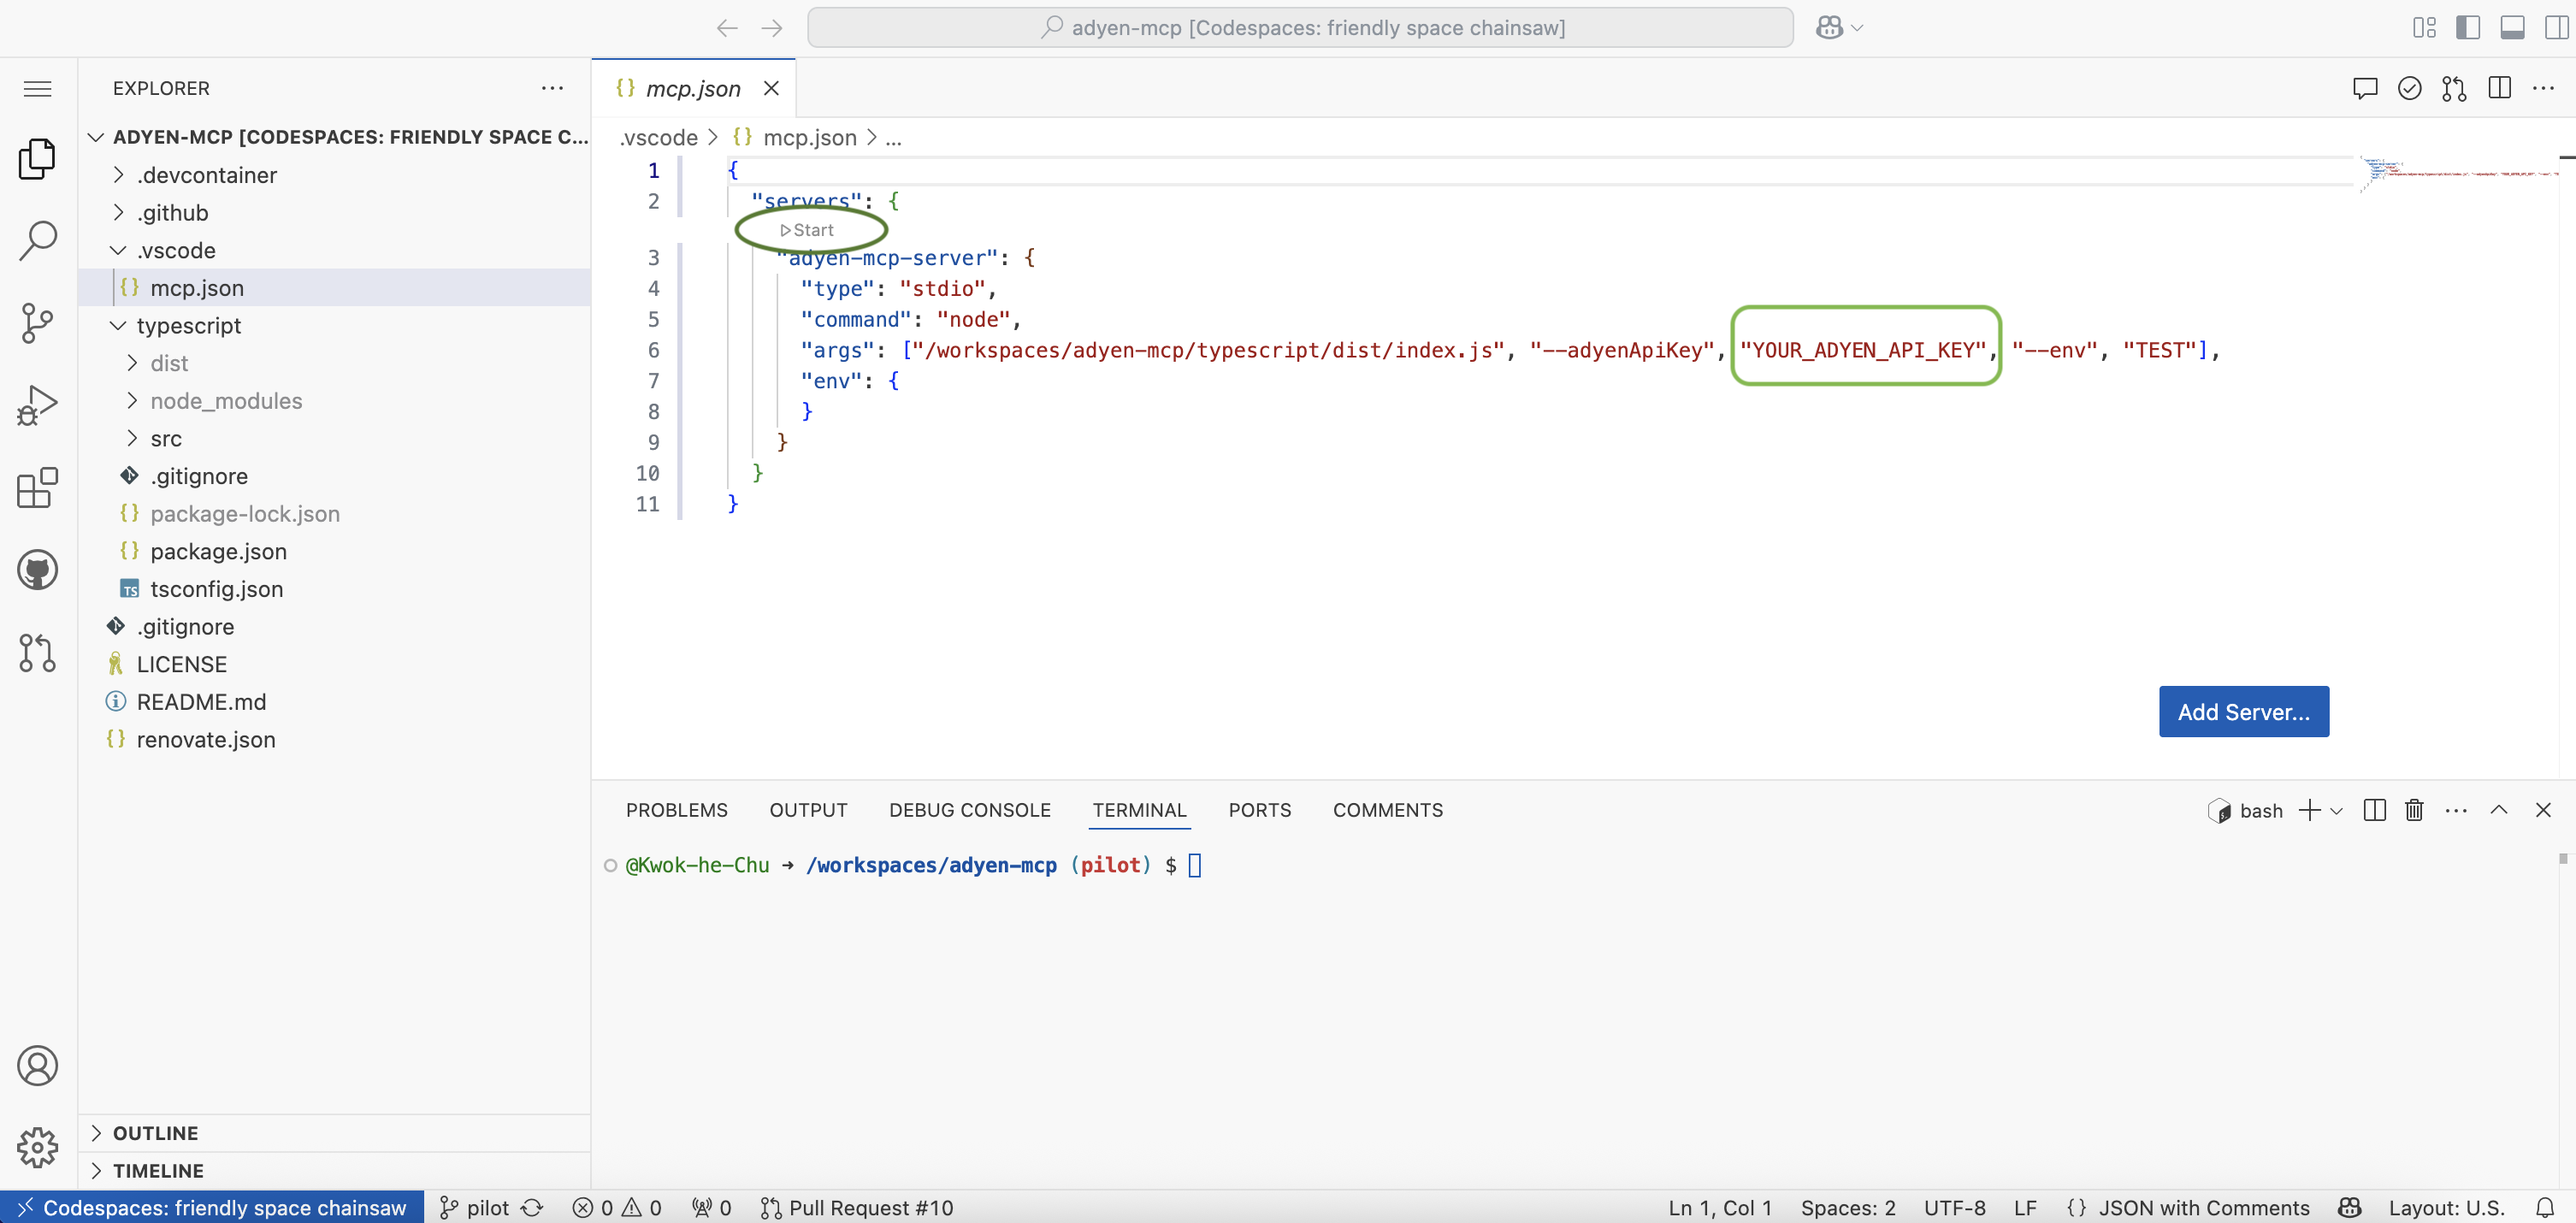
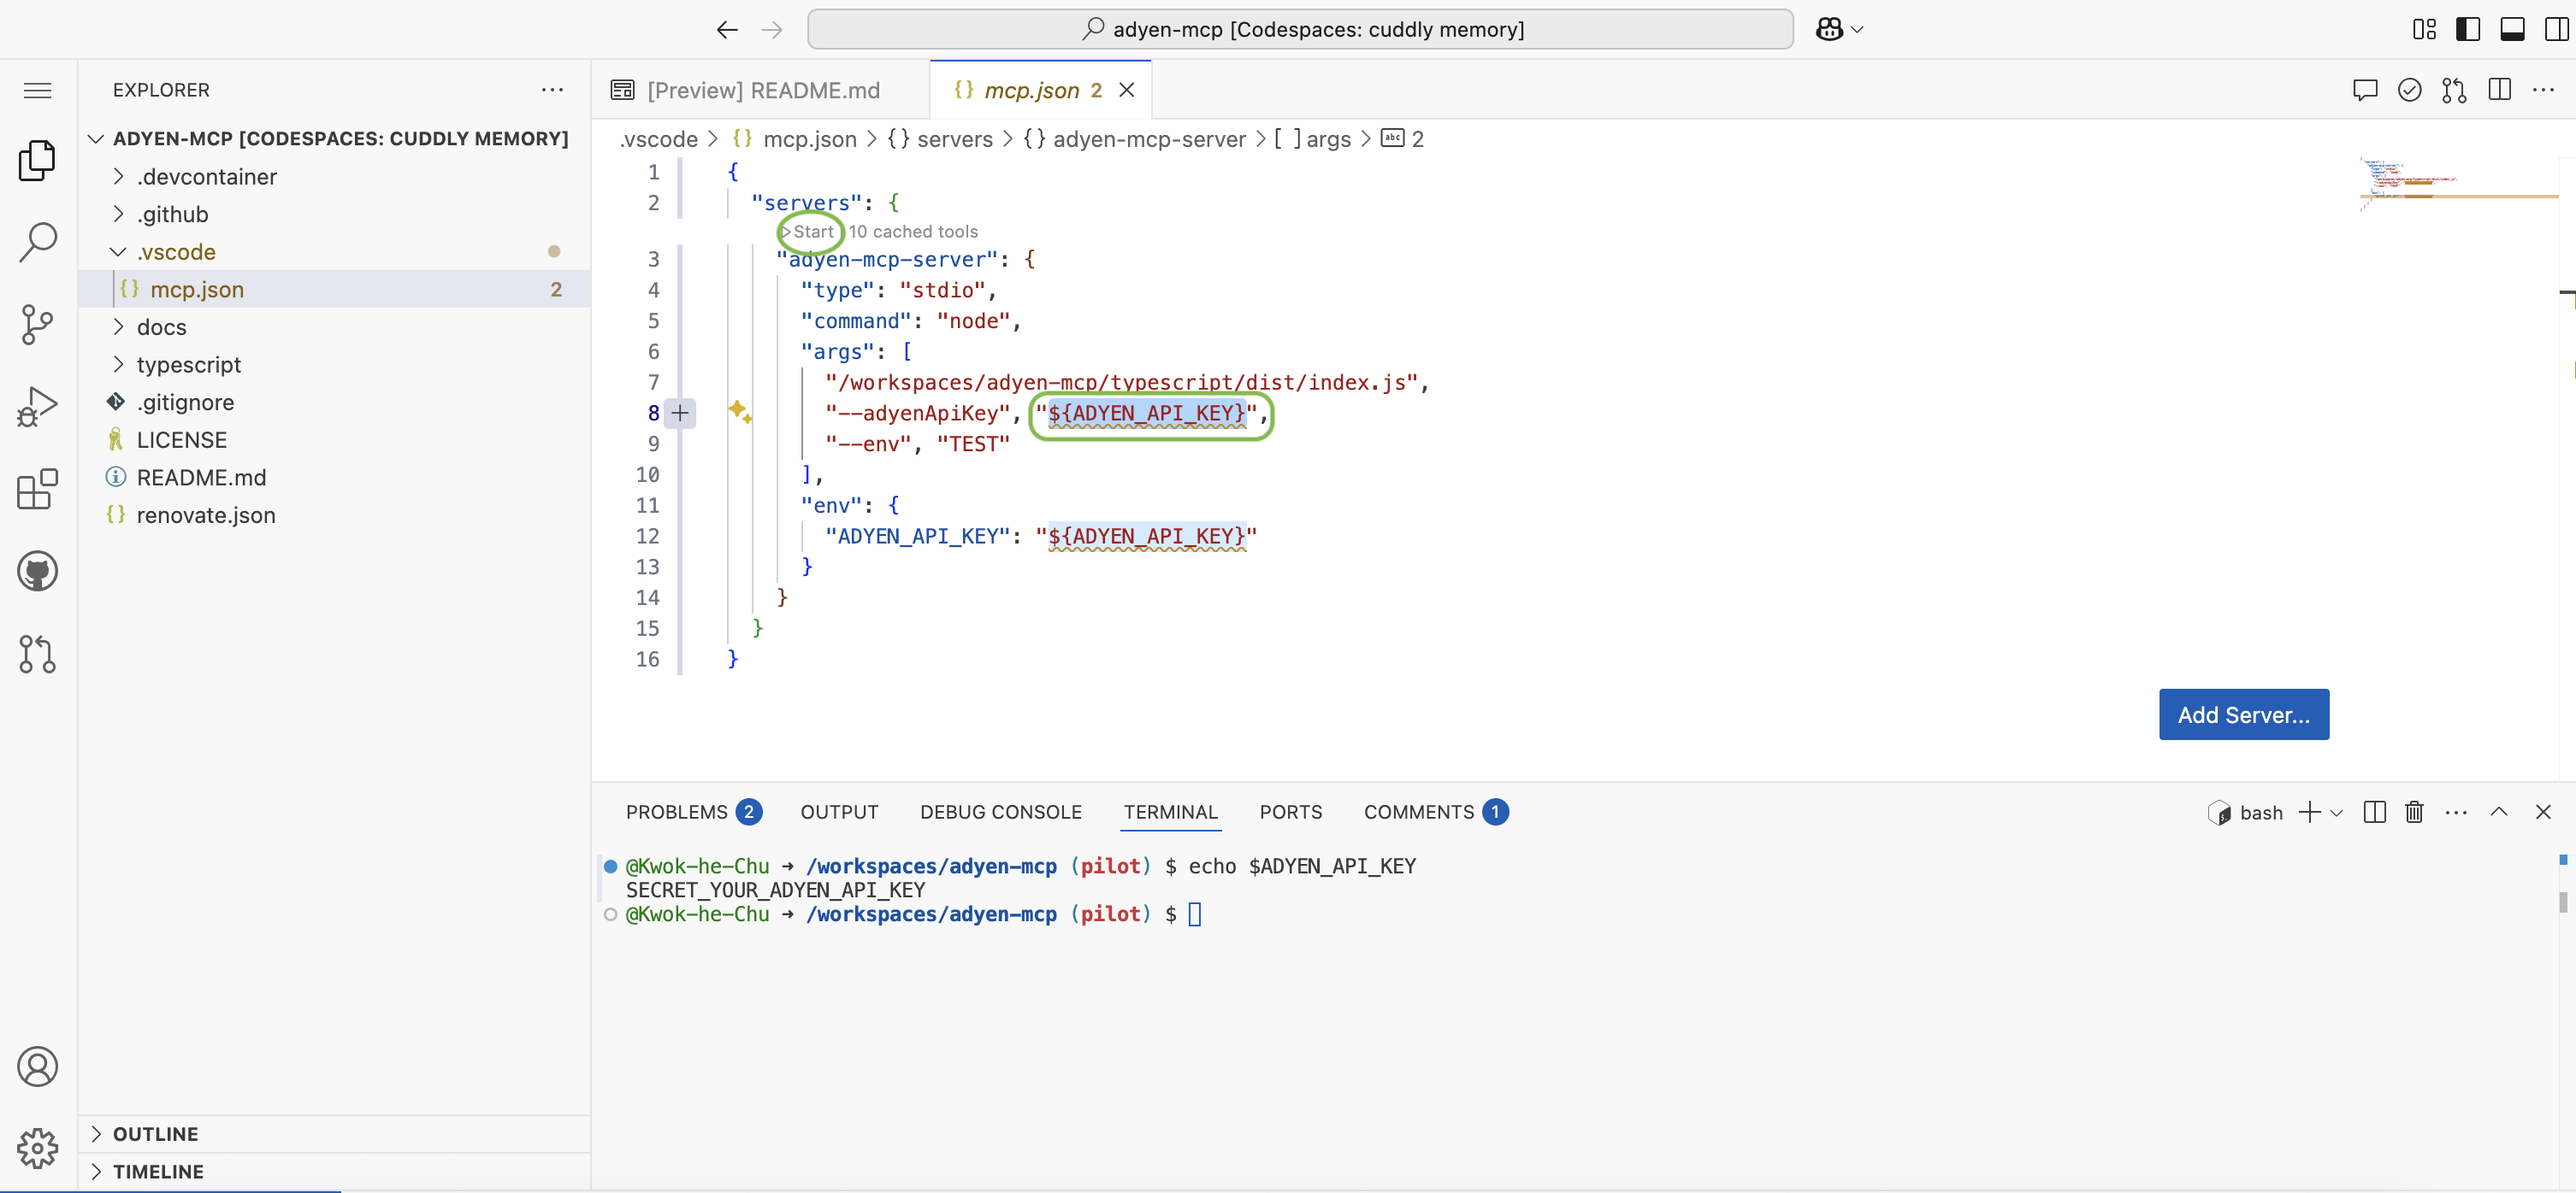
Added instructions

diff --git a/README.md b/README.md
@@ -43,16 +43,19 @@ Only use the new user’s API key for the MCP application and limit the roles to
 1. **Create a new codespace on Github.**
 ![](docs/images/0.png)
 
-2. **Replace `YOUR_ADYEN_API_KEY` with your [Adyen API Key](https://docs.adyen.com/development-resources/api-credentials/#generate-api-key) in `.vscode/mcp.json` and click start.**
+2. **Navigate to `.vscode/mcp.json`, replace `{ADYEN_API_KEY}` with your [Adyen API Key](https://docs.adyen.com/development-resources/api-credentials/#generate-api-key) and click start.**
 ![](docs/images/1.png)
 
-The MCP server should start, see indicator:
 
-![](docs/images/2.png)
+* Alternatively, the recommended best practice is to add your `ADYEN_API_KEY` to Codespaces [here](https://github.com/settings/codespaces/secrets/new. This securely injects the key into your Codespace environment:
+
+![](docs/images/codespaces-secret.png)
+
 
 
 3. **Open Github Copilot's chat and set it to `Agent` mode.**
-Note: You may need to enable 
+_Note: You may need to enable [Github Copilot](https://github.com/copilot) on your Github account._
+
 ![](docs/images/3.png)
 
 ![](docs/images/4.png)
